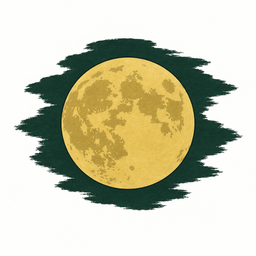
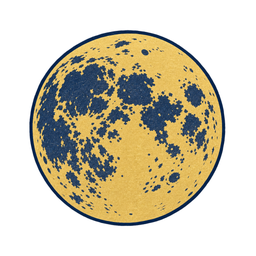
42枚すべての絵がそろった（v0.9）
絵札35枚に加え、キーワードを表す紋札7枚を家紋の意匠で作った。
文字だけで紋と呼んでいた状態を解消した。
紛らわしかった絵札（夏・葉・別れ・宵）を題材から作り直し、
キーワードが変わった月を藍色にし、失敗していた吉野と天の橋立を復旧した。

diff --git a/index.html b/index.html
@@ -264,7 +264,7 @@
   </section>
 </main>
 
-<script src="data.js?v=0.8"></script>
+<script src="data.js?v=0.9"></script>
 <script>
 // 版の数字は index.html の data.js の読み込み（?v=…）だけで管理する。直したらそこを上げる
 const VER = (document.querySelector('script[src^="data.js"]').src.match(/v=([\d.]+)/)||[])[1] || '?';

diff --git a/変更履歴.md b/変更履歴.md
@@ -3,6 +3,14 @@
 版の数字は `index.html` の `<script src="data.js?v=…">` の1か所で管理している。
 直したらそこを上げる。画面の右上に出る数字はそこから読んでいる。
 
+## v0.9
+- 絵札35枚と紋札7枚、あわせて42枚の絵がそろった。
+- 紋札は家紋の意匠にした。四季は四弁の風車、自然は山と水、感情は三つ巴の火焔、
+  朝と夜は日輪と三日月、天候は雲と雨脚、生き物は向かい合う二羽の鳥、地名は鳥居。
+- 作り直した絵札。夏は蓮（桜と紛れたため）、葉は葉脈のある一枚（草と紛れたため）、
+  別れは離れてゆく二つの袖（木の股に見えたため）、宵は大きな一番星（星が小さすぎたため）。
+  月は藍色に（キーワードが朝と夜に変わったため）。吉野と天の橋立は生成の失敗から復旧。
+
 ## v0.8
 - 月を自然から朝と夜へ移した。自然が広すぎたことへの最小の手当てである。
   ぴたりは4点から6点になり、札の色も緑から藍に変わる（絵は作り直し待ち）。
